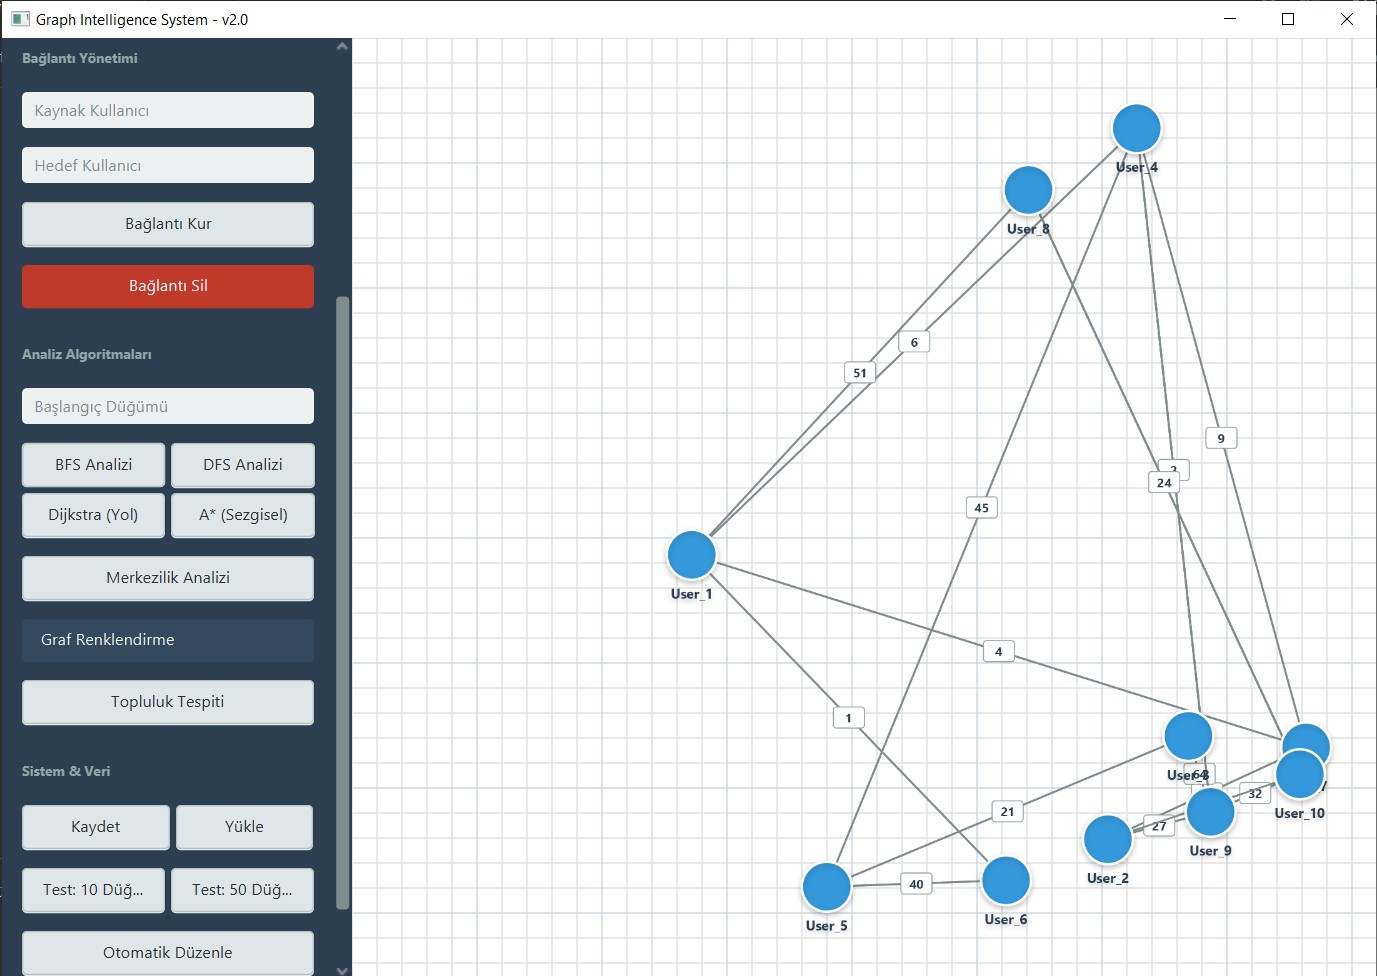
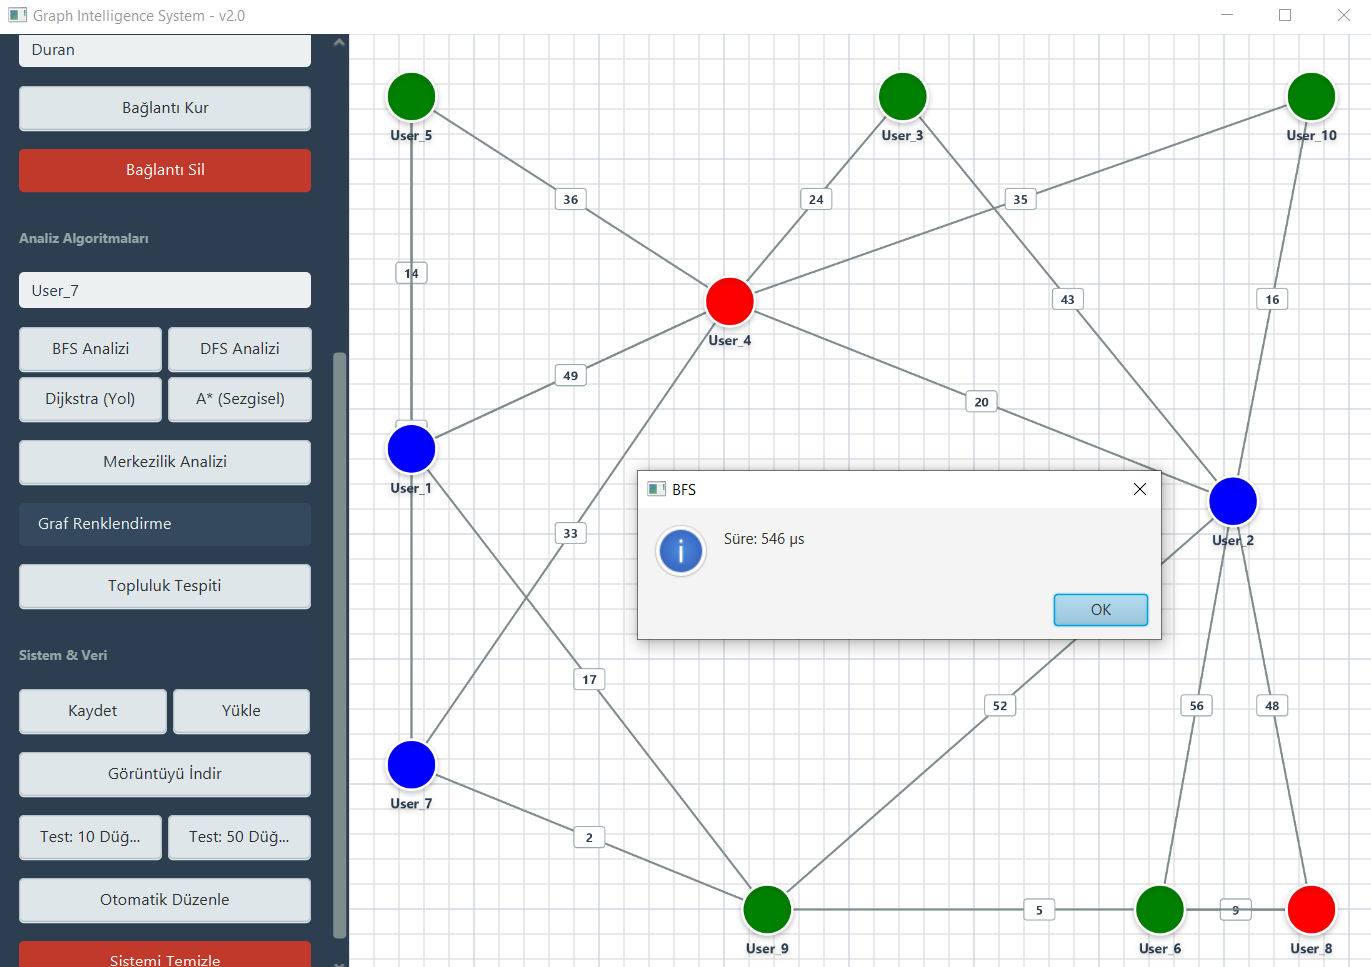
Topluluk tespitinde ayrık grupları tespit ederek farklı renklerde gösterme

diff --git a/src/main/java/com/socialnetwork/socialnetworkanalysis/controller/GraphController.java b/src/main/java/com/socialnetwork/socialnetworkanalysis/controller/GraphController.java
@@ -415,9 +415,100 @@ public class GraphController {
         if(c.equals(Color.BROWN)) return "Kahverengi";
         return "Özel Renk";
     }
+    //public void runConnectedComponents() {
+    //    long t=measure(()->new ConnectedComponentsAlgorithm().execute(graph,null));
+    //    showAlert("Topluluk","Tamamlandı. Süre: "+t+" µs");
+    //}
+    // --- BAĞLI BİLEŞENLER (TOPLULUK) TESPİTİ ---
     public void runConnectedComponents() {
-        long t=measure(()->new ConnectedComponentsAlgorithm().execute(graph,null));
-        showAlert("Topluluk","Tamamlandı. Süre: "+t+" µs");
+        if (graph.getAllNodes().isEmpty()) {
+            showAlert("Uyarı", "Analiz edilecek veri yok.");
+            return;
+        }
+
+        // Ziyaret edilenleri takip et
+        Set<Node> visited = new HashSet<>();
+        List<List<Node>> components = new ArrayList<>();
+
+        // BFS/DFS mantığıyla adaları (components) bul
+        for (Node node : graph.getAllNodes()) {
+            if (!visited.contains(node)) {
+                // Yeni bir keşfedilmemiş ada bulduk!
+                List<Node> component = new ArrayList<>();
+                findComponentBFS(node, visited, component);
+                components.add(component);
+            }
+        }
+
+        // Renk Paleti (Her topluluk için farklı renk)
+        Color[] palette = {
+                Color.RED, Color.BLUE, Color.GREEN, Color.ORANGE,
+                Color.PURPLE, Color.CYAN, Color.MAGENTA, Color.BROWN
+        };
+
+        // Görseli Güncelle (Boyama)
+        for (int i = 0; i < components.size(); i++) {
+            Color c = palette[i % palette.length];
+            for (Node n : components.get(i)) {
+                n.setColor(c);
+            }
+        }
+        view.drawGraph(graph);
+
+        // RAPOR OLUŞTUR
+        StringBuilder report = new StringBuilder();
+        report.append("🧩 TOPLULUK ANALİZİ SONUCU\n");
+        report.append("Tespit Edilen Ayrık Topluluk Sayısı: ").append(components.size()).append("\n");
+        report.append("──────────────────────────────────────────\n");
+
+        for (int i = 0; i < components.size(); i++) {
+            report.append("GRUP ").append(i + 1).append(" (").append(getColorName(palette[i % palette.length])).append("): ");
+
+            List<String> names = new ArrayList<>();
+            for (Node n : components.get(i)) names.add(n.getName());
+
+            report.append(String.join(", ", names)).append("\n");
+        }
+
+        // Sonucu Göster
+        Alert alert = new Alert(Alert.AlertType.INFORMATION);
+        alert.setTitle("Topluluk Tespiti Raporu");
+        alert.setHeaderText(components.size() + " Adet Ayrık Topluluk Bulundu");
+
+        TextArea textArea = new TextArea(report.toString());
+        textArea.setEditable(false);
+        textArea.setWrapText(true);
+        textArea.setMaxWidth(Double.MAX_VALUE);
+        textArea.setMaxHeight(Double.MAX_VALUE);
+
+        GridPane.setVgrow(textArea, Priority.ALWAYS);
+        GridPane.setHgrow(textArea, Priority.ALWAYS);
+        GridPane content = new GridPane();
+        content.setMaxWidth(Double.MAX_VALUE);
+        content.add(textArea, 0, 0);
+
+        alert.getDialogPane().setContent(content);
+        alert.showAndWait();
+    }
+
+    // Yardımcı Metod: Bir düğümden başlayıp bağlı olan herkesi bulur (BFS)
+    private void findComponentBFS(Node startNode, Set<Node> visited, List<Node> component) {
+        Queue<Node> queue = new LinkedList<>();
+        queue.add(startNode);
+        visited.add(startNode);
+
+        while(!queue.isEmpty()) {
+            Node current = queue.poll();
+            component.add(current);
+
+            for(Edge edge : graph.getNeighbors(current)) {
+                Node neighbor = edge.getTarget();
+                if(!visited.contains(neighbor)) {
+                    visited.add(neighbor);
+                    queue.add(neighbor);
+                }
+            }
+        }
     }
     public void clearGraph() { graph.clear(); view.drawGraph(graph); showAlert("Bilgi", "Sistem sıfırlandı."); }
 
